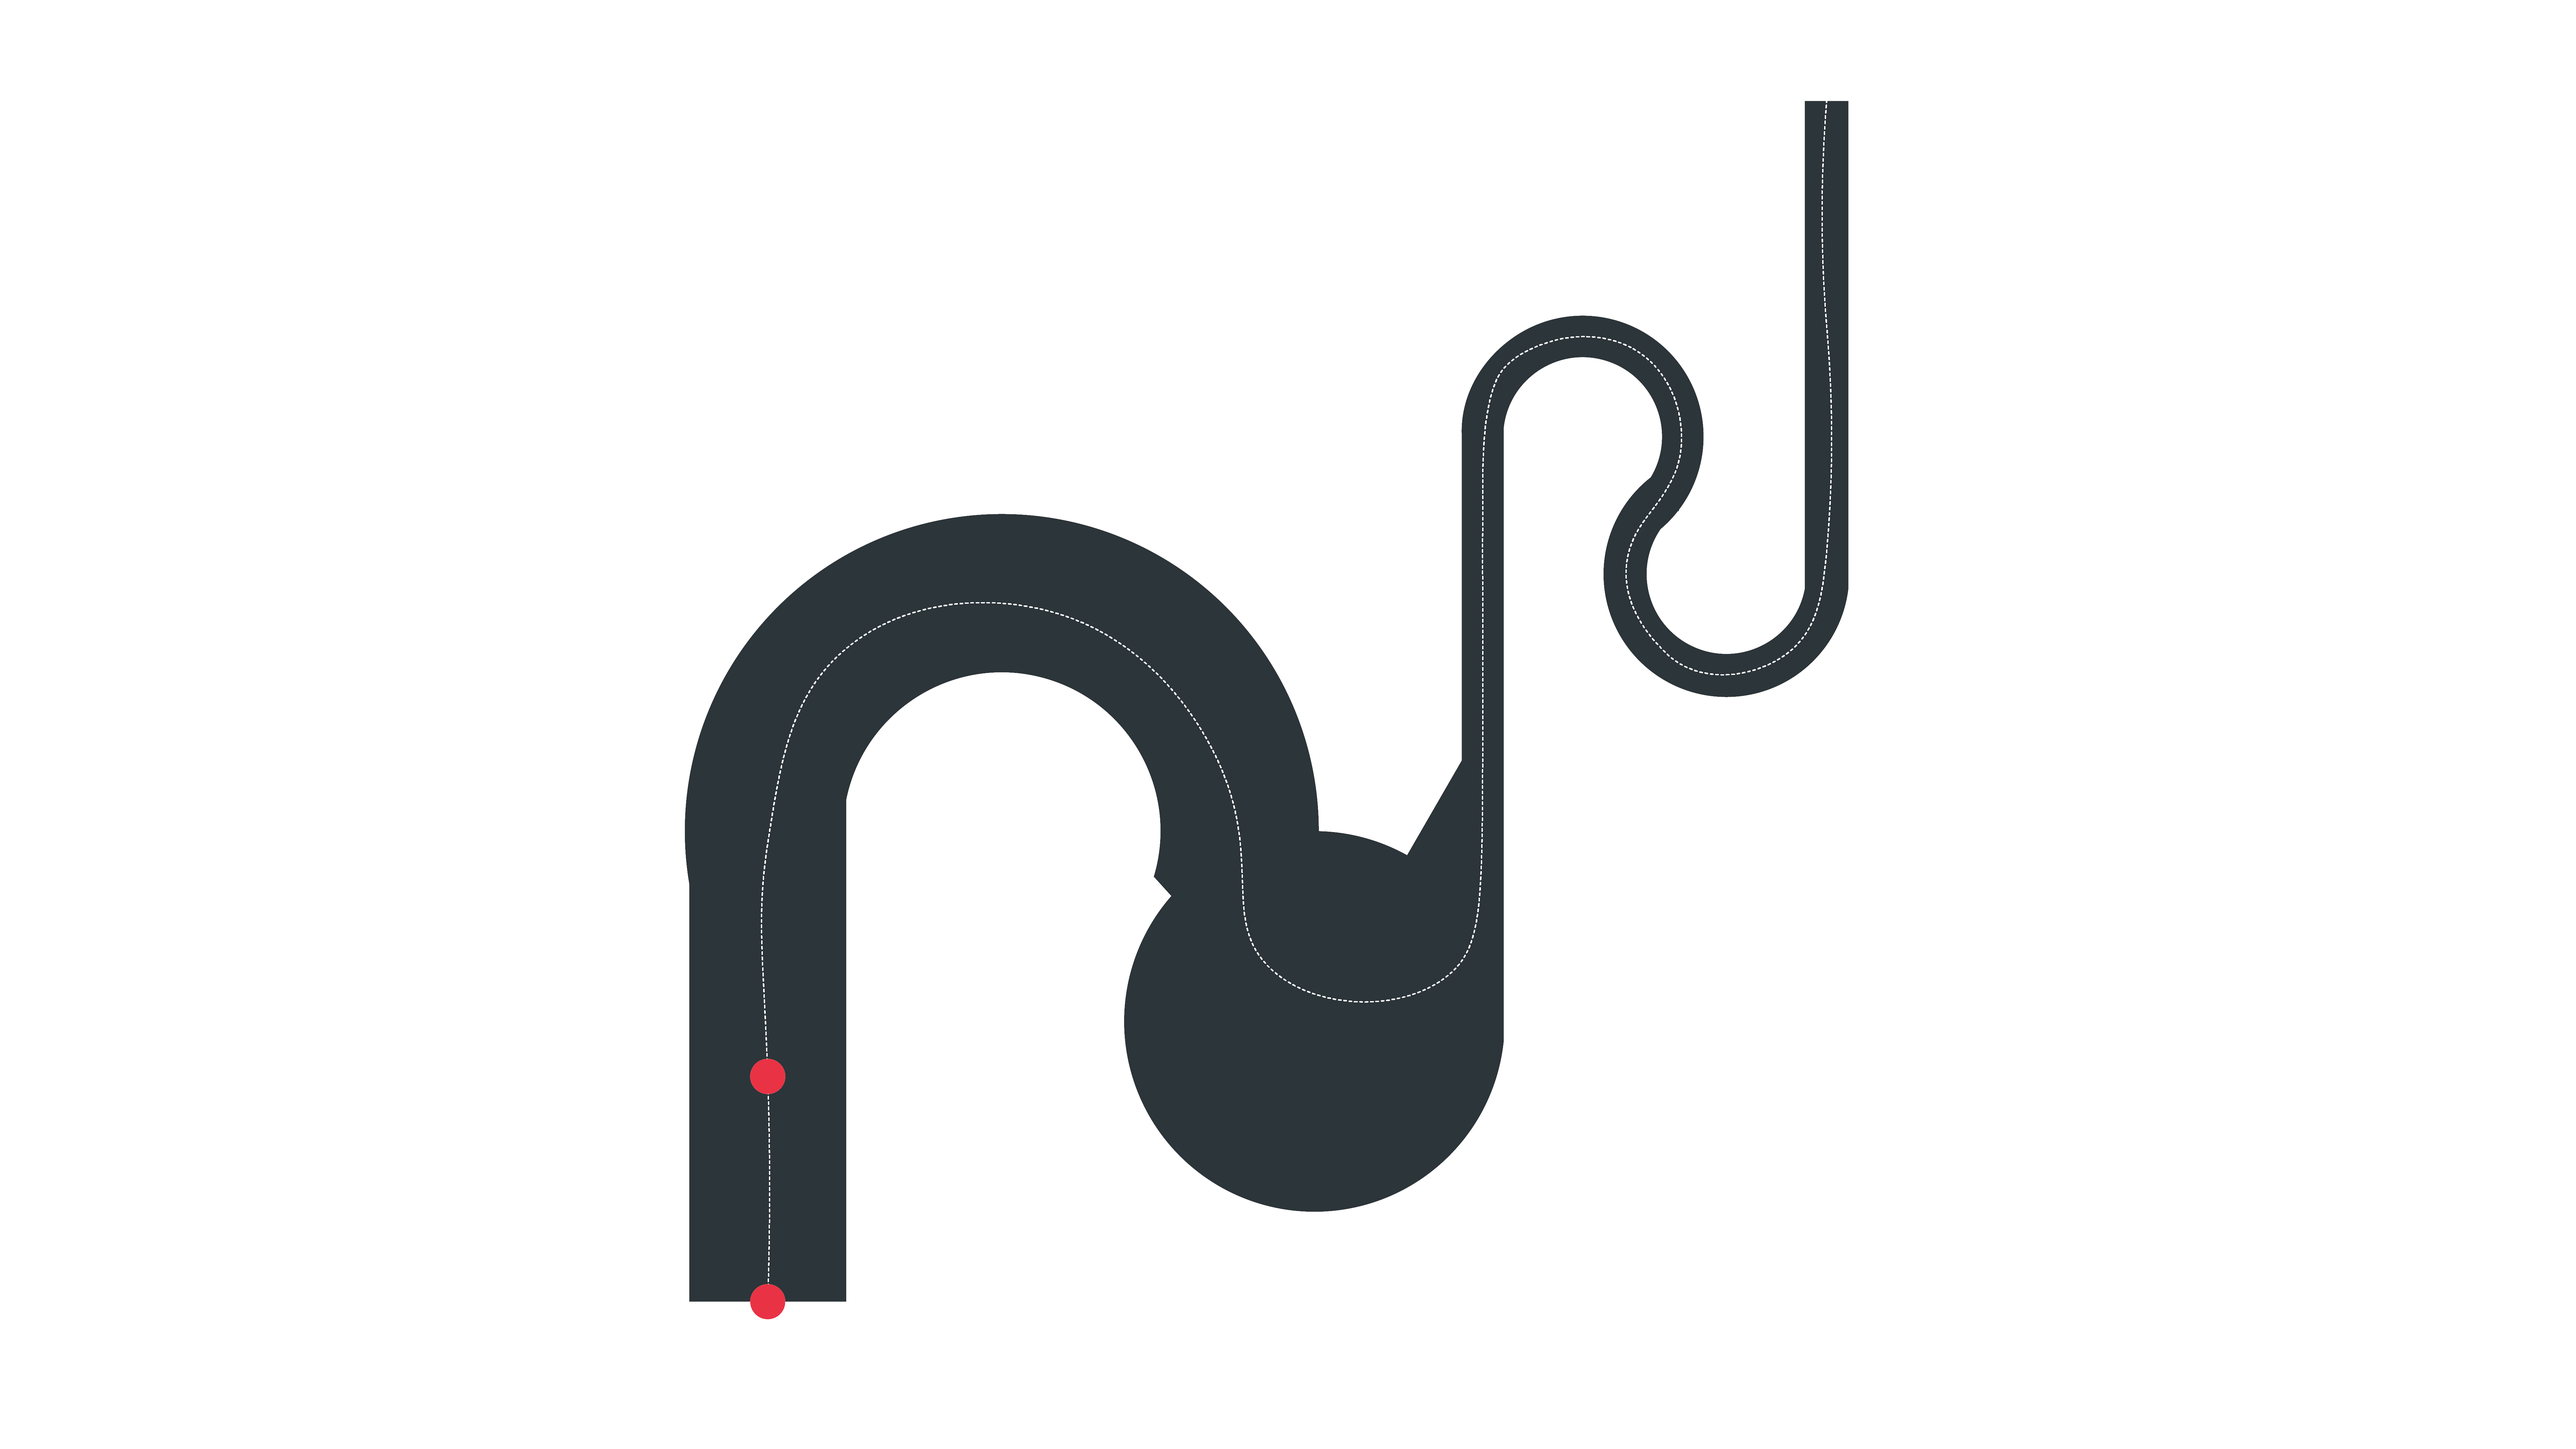
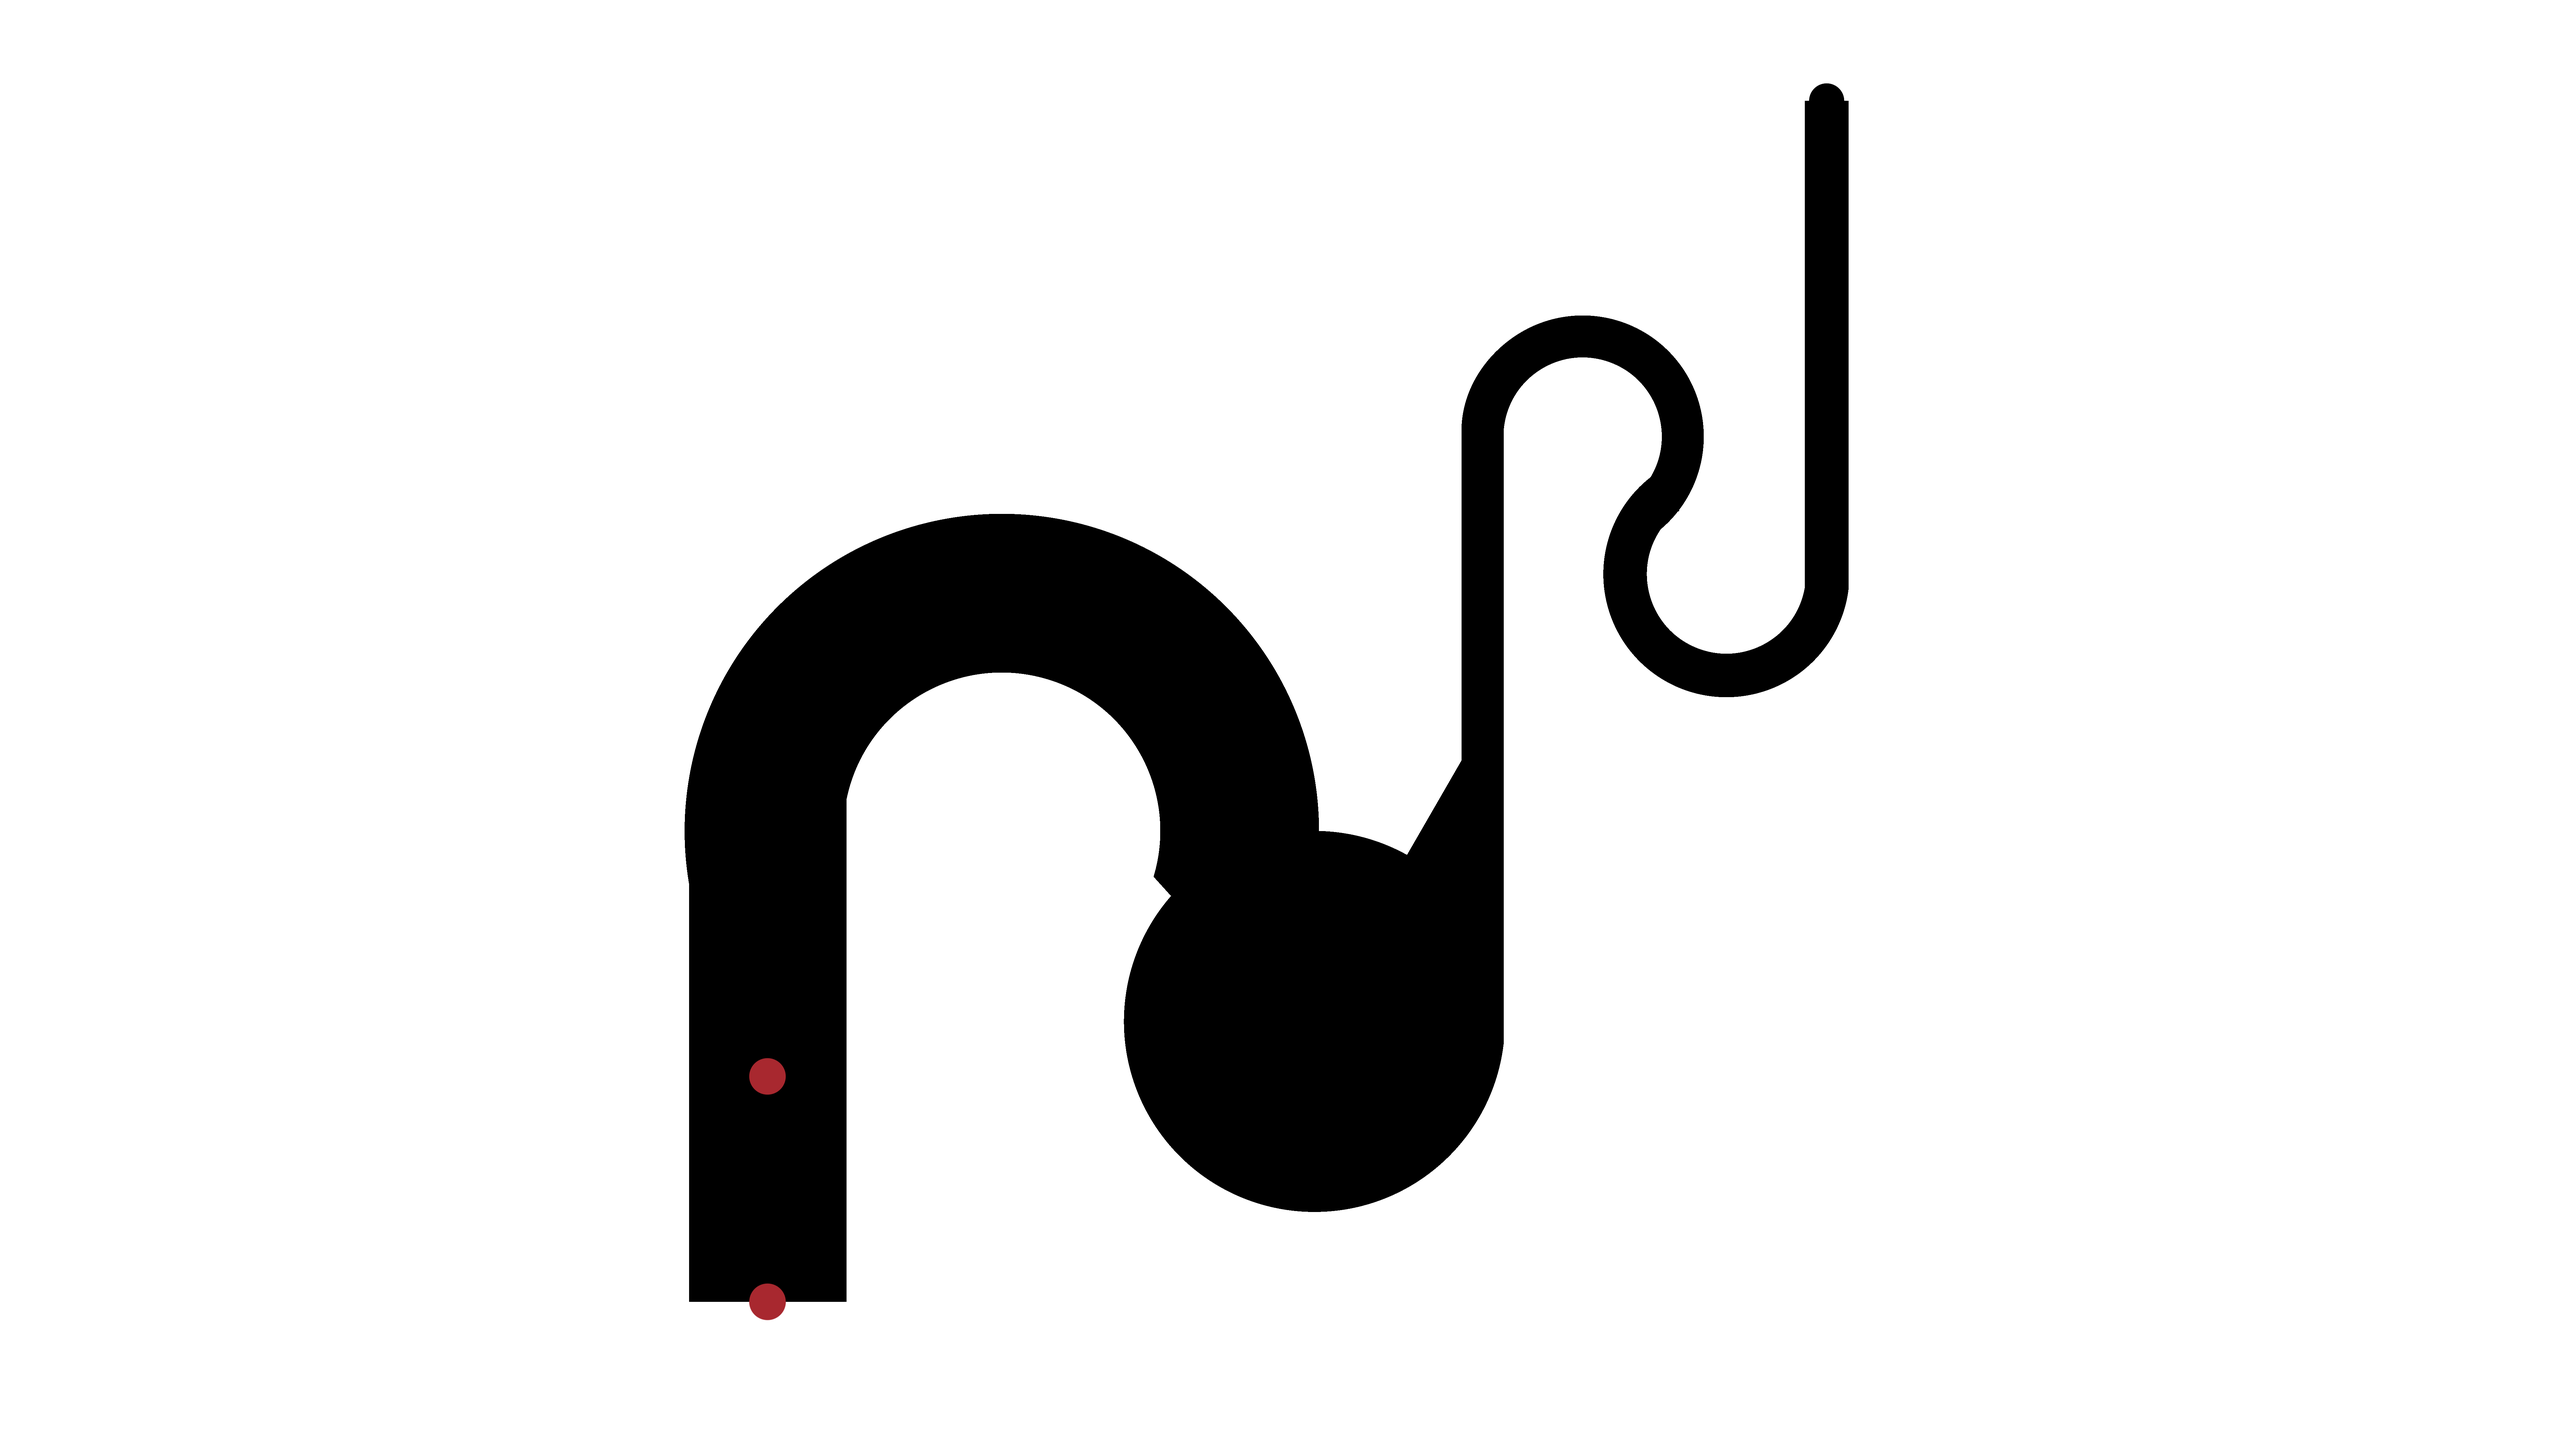
updates

Changed region(s): [[0.25, 0.0622, 0.7188, 0.9022]]

diff --git a/style.css b/style.css
@@ -21,6 +21,17 @@ font-style: normal;
 color: #ad2424;
 }
 
+.scene-counter {
+  flex: 1;
+  display: flex;
+  align-items: center;
+  justify-content: center;
+  font-family: calvino, sans-serif;
+font-weight: 700;
+color: #ad2424;
+font-size: 30px !important;
+}
+
 .outer-frame {
   position: fixed;
   width: 100vw;
@@ -44,6 +55,7 @@ color: #ad2424;
     z-index: 1000;
     width: 400px;
     height: auto;
+    
 }
 
 .scene-tracker img {
@@ -76,16 +88,32 @@ color: #ad2424;
 }
 
 #canvas-container {
-  width: 80%;
-  height: 80%;
+  width: 60%;
+  height: 74%;
   background-size: cover;
   overflow: hidden;
   position: relative;
 }
 
-#canvas-container canvas {
+#canvas-container::before {
+  content: '';
+  position: absolute;
+  top: 0;
+  left: 0;
   width: 100%;
   height: 100%;
+  background-image: url('images/silhouette.png'); /* Your silhouette image */
+  background-size: contain;
+  background-position: center;
+  background-repeat: no-repeat;
+  opacity: 0; /* Hidden by default */
+  z-index: 4;
+  pointer-events: none;
+}
+
+#canvas-container canvas {
+  width: 80%;
+  height: 80%;
   display: block;
 }
 
@@ -116,12 +144,11 @@ color: #ad2424;
 
 /* prduct info */
 .product-info {
-  flex: 1;
-  min-height: 40px;
+  width: 100%;
+  padding: 10px 40px;
   display: flex;
+  justify-content: center;
   align-items: center;
-  border-radius: 6px;
-  padding: 12px 16px;
 }
 
 #product-text {
@@ -134,6 +161,15 @@ font-style: normal;
 
 }
 
+#trace-canvas {
+  position: absolute;
+  top: 0;
+  left: 0;
+  width: 100%;
+  height: 100%;
+  pointer-events: none;
+  z-index: 5;
+}
 
 /* RESPONSIVE */
 @media (max-width: 1200px) {
@@ -163,8 +199,8 @@ font-style: normal;
   }
 
   #canvas-container {
-    width: 90%;
-    height: 90%;
+    width: 80%;
+    height: 80%;
   }
 
   .viewport-container {

diff --git a/index.html b/index.html
@@ -14,7 +14,15 @@
             <div class="scene-tracker">
     <img id="scene-tracker-img" src="images/maps/map1.png" alt="Scene Tracker">
 </div>
+
+<p class="scene-counter"><span id="current-scene"></span></p>
+
         </div>
+
+        <!-- Product info display -->
+            <div id="product-info" class="product-info">
+                <p id="product-text"></p>
+            </div>
 
         <!--Three.js-->
         <div class="viewport-container">
@@ -23,14 +31,6 @@
 
         <div class="outer-bottom">
             <!-- count -->
-            <div class="progress-section">
-                <p class="scene-counter"><span id="current-scene"></span></p>
-                <button id="restart-btn" style="display: none;">Restart Sequence</button>
-            </div>
-
-            <!-- Product info display -->
-            <div id="product-info" class="product-info">
-                <p id="product-text"></p>
             </div>
 
         </div>
